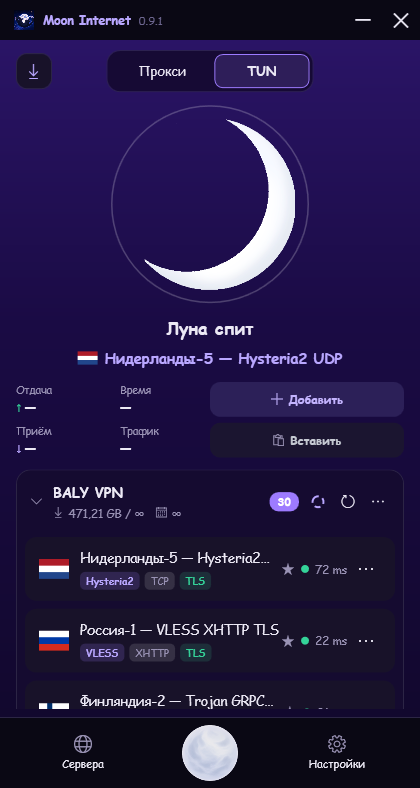
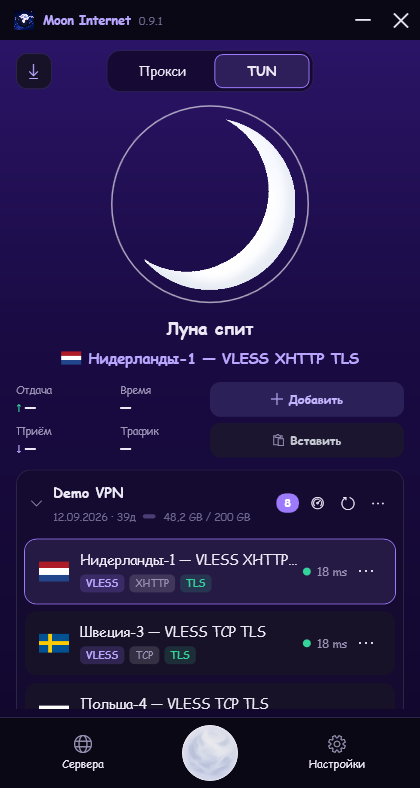
fix(android): no proxy mode, no welcome flash, and the tablet gets its width back
Proxy mode is gone from the phone. Nothing else does it — not HAPP, not
INCY, not v2RayTun — and a second tab promised a thing that was never going
to behave like the desktop one. The row stays a row with a single Туннель
button, because another mode is planned for the space.

The tablet cap is reverted. Clamping the whole app to a phone column left a
tablet mostly empty, which reads worse than a stretched row; the row that
actually misbehaved was the stats block, where two fixed columns sat beside
a weighted one and the buttons took every extra pixel. All three share by
weight now.

The welcome screen flashed for a frame on every launch: the UI rendered off
the default state before the file had been read. Store exposes ready, and
nothing renders until it is true.

The update check no longer hides behind the notification setting — that is
why About showed a dash for the GitHub version. The check always runs at
launch; only the popup is a setting.

diff --git a/android/app/src/main/java/cc/moon/internet/MainActivity.kt b/android/app/src/main/java/cc/moon/internet/MainActivity.kt
@@ -50,13 +50,6 @@ import cc.moon.internet.R
 /** The four pages the desktop window has. */
 private enum class Page { Home, Servers, Routing, Settings }
 
-/**
- * How wide the content is allowed to get. The desktop window it was ported from is 420dp;
- * a little more than that reads fine on a big phone, and anything past it is a tablet
- * stretching a layout that was never meant to fill one.
- */
-private val CONTENT_MAX_WIDTH = 460.dp
-
 class MainActivity : ComponentActivity() {
 
     companion object {
@@ -94,7 +87,14 @@ class MainActivity : ComponentActivity() {
             LaunchedEffect(state.accentHex, state.bgHex, state.textHex) {
                 applyTheme(state.accentHex, state.bgHex, state.textHex)
             }
+            val ready by vm.ready.collectAsState()
             MoonTheme(fontName = state.fontName) {
+                // Nothing until the state file has been read: rendering off the defaults flashed
+                // the welcome screen for a frame on every launch.
+                if (!ready) {
+                    Box(Modifier.fillMaxSize().background(Moon.WinBg))
+                    return@MoonTheme
+                }
                 // First launch takes the whole window: there is nothing behind it worth seeing
                 // until a subscription exists.
                 if (!state.welcomeShown) {
@@ -222,17 +222,13 @@ class MainActivity : ComponentActivity() {
                     },
                 ) { pad ->
                     Box(Modifier.fillMaxSize(), contentAlignment = Alignment.TopCenter) {
-                    // The layout is a phone layout — it was ported from a 420dp-wide desktop
-                    // window. Left to fill a tablet it stretches into nonsense: the Добавить /
-                    // Вставить column grew until the speed and traffic readouts had no room.
-                    // Capping the content and centring it fixes every row at once, and is what
-                    // the other clients do on a tablet too.
-                    Box(Modifier.padding(pad).widthIn(max = CONTENT_MAX_WIDTH).fillMaxHeight()) {
+                    // Full width on purpose. Capping it to a phone column left a tablet mostly
+                    // empty, which reads worse than a stretched row — the rows that actually
+                    // misbehaved are fixed where they are, in the layouts themselves.
+                    Box(Modifier.padding(pad).fillMaxSize()) {
                         when (page) {
                             Page.Home -> HomeScreen(
                                 state = vpn,
-                                tunMode = state.tunMode,
-                                onTunMode = vm::setProxyMode,
                                 server = selected,
                                 subscriptions = state.subscriptions,
                                 collapsed = collapsed,
@@ -526,9 +522,6 @@ private fun BottomNav(
 ) {
     Box(
         modifier
-            // the cap goes before fillMaxWidth, not after: constraints flow outwards in, so
-            // filling first and clamping second leaves the bar full width on a tablet
-            .widthIn(max = CONTENT_MAX_WIDTH)
             .fillMaxWidth()
             // the inset next, so the card clears the system buttons instead of sitting on them
             .navigationBarsPadding()

diff --git a/android/app/src/main/java/cc/moon/internet/ui/HomeScreen.kt b/android/app/src/main/java/cc/moon/internet/ui/HomeScreen.kt
@@ -37,8 +37,6 @@ import androidx.compose.ui.res.stringResource
 @Composable
 fun HomeScreen(
     state: State,
-    tunMode: Boolean,
-    onTunMode: (Boolean) -> Unit,
     server: ServerProfile?,
     subscriptions: List<Subscription>,
     collapsed: Set<String>,
@@ -77,7 +75,10 @@ fun HomeScreen(
         contentPadding = PaddingValues(bottom = bottomNavSpace()),
         horizontalAlignment = Alignment.CenterHorizontally,
     ) {
-        // ---- Прокси / TUN, с плиткой обновления слева ----------------------
+        // ---- режим, с плиткой обновления слева -----------------------------
+        // One button for now. A proxy-only mode is not a thing on Android — HAPP, INCY and
+        // v2RayTun do not offer one either — so promising it with a second tab was misleading.
+        // The row stays a row because another mode is planned for it.
         item {
             Spacer(Modifier.height(12.dp))
             Box(Modifier.fillMaxWidth(), contentAlignment = Alignment.Center) {
@@ -87,8 +88,7 @@ fun HomeScreen(
                     border = androidx.compose.foundation.BorderStroke(1.dp, Color(0xFF2C2150)),
                 ) {
                     Row(Modifier.padding(3.dp)) {
-                        SegButton(stringResource(R.string.homescreen_001), !tunMode) { onTunMode(false) }
-                        SegButton("TUN", tunMode) { onTunMode(true) }
+                        SegButton(stringResource(R.string.mode_tunnel), true) { }
                     }
                 }
 
@@ -194,18 +194,21 @@ fun HomeScreen(
         // ---- stats + add/paste ----------------------------------------------
         item {
             Spacer(Modifier.height(12.dp))
+            // Everything shares the width by weight. Fixed columns beside a weighted one was the
+            // actual tablet problem: the buttons took every extra pixel and the readouts kept
+            // their 104dp whatever the screen was.
             Row(Modifier.fillMaxWidth(), verticalAlignment = Alignment.CenterVertically) {
-                Column(Modifier.width(104.dp)) {
+                Column(Modifier.weight(1f).widthIn(min = 104.dp)) {
                     StatCell(stringResource(R.string.homescreen_009), "↑", upSpeed, Moon.Green)
                     Spacer(Modifier.height(7.dp))
                     StatCell(stringResource(R.string.homescreen_010), "↓", downSpeed, Moon.AccentText)
                 }
-                Column(Modifier.width(90.dp)) {
+                Column(Modifier.weight(1f).widthIn(min = 90.dp)) {
                     StatCell(stringResource(R.string.homescreen_011), null, elapsed, Moon.TextPrimary)
                     Spacer(Modifier.height(7.dp))
                     StatCell(stringResource(R.string.homescreen_012), null, traffic, Moon.TextPrimary)
                 }
-                Column(Modifier.weight(1f)) {
+                Column(Modifier.weight(1.1f).widthIn(max = 260.dp)) {
                     ActionButton(stringResource(R.string.settingsscreen_195), Icons.Filled.Add, Color(0xFF2C2058), Color(0xFFC4B4FF), onAdd)
                     Spacer(Modifier.height(6.dp))
                     ActionButton(stringResource(R.string.serversscreen_005), Icons.Filled.ContentPaste, Moon.ChipBg, Color(0xFFC6CAD3), onPaste)

diff --git a/android/app/src/main/java/cc/moon/internet/ui/MainViewModel.kt b/android/app/src/main/java/cc/moon/internet/ui/MainViewModel.kt
@@ -32,6 +32,7 @@ class MainViewModel(app: Application) : AndroidViewModel(app) {
 
     private val store = Store(app)
     val state get() = store.state
+    val ready get() = store.ready
 
     private val _status = MutableStateFlow("")
     val status = _status.asStateFlow()
@@ -143,6 +144,9 @@ class MainViewModel(app: Application) : AndroidViewModel(app) {
         _updateAvailable.value = cc.moon.internet.data.UpdateService.isNewer(r.version, appVersion)
         _updateStatus.value =
             if (_updateAvailable.value) s(R.string.vm_update_available, r.version) else s(R.string.vm_up_to_date)
+        val st = store.state.value
+        if (_updateAvailable.value && st.notificationsEnabled && st.notifyAppUpdate)
+            postNotice(s(R.string.vm_update_available, r.version))
     }
 
     init {
@@ -159,12 +163,10 @@ class MainViewModel(app: Application) : AndroidViewModel(app) {
             if (store.state.value.pingOnStart && _pings.value.isEmpty()) pingAll()
             requestAutoConnect()
         }
-        // The launch check is gated: the badge and the popup are both something the user can
-        // switch off on the Уведомления page, and a check nobody sees is just a request.
-        viewModelScope.launch {
-            store.load()   // no-op if the block above got there first
-            if (store.state.value.notificationsEnabled && store.state.value.notifyAppUpdate) checkUpdate()
-        }
+        // Always check at launch. Gating the check itself on the notification setting left the
+        // About page showing a dash for the GitHub version and "you are up to date" for something
+        // nobody had looked up — the setting belongs on the popup, not on the lookup.
+        checkUpdate()
         viewModelScope.launch { watchTraffic() }
         viewModelScope.launch {
             vpnState.collect { s ->
@@ -352,7 +354,6 @@ class MainViewModel(app: Application) : AndroidViewModel(app) {
 
     fun dismissWelcome() = viewModelScope.launch { store.update { it.copy(welcomeShown = true) } }
 
-    fun setTunMode(on: Boolean) = viewModelScope.launch { store.update { it.copy(tunMode = on) } }
 
     fun sortedServers(): List<ServerProfile> = store.sortedServers(_pings.value)
 
@@ -732,11 +733,6 @@ class MainViewModel(app: Application) : AndroidViewModel(app) {
 
     /** Last lines of the core log, for the viewer. */
     fun logsTail(): String = cc.moon.internet.data.LogStore.tail(getApplication())
-
-    fun setProxyMode(tun: Boolean) = viewModelScope.launch {
-        store.update { it.copy(tunMode = tun) }
-        reconnectIfConnected()
-    }
 
     /** Generic one-off message in the snackbar (copied, empty clipboard, not-built-yet screens). */
     fun notImplemented(what: String) { _status.value = what }

diff --git a/android/app/src/main/java/cc/moon/internet/data/Store.kt b/android/app/src/main/java/cc/moon/internet/data/Store.kt
@@ -26,6 +26,7 @@ data class AppState(
     val dns: String = "1.1.1.1",
     val ipv6: Boolean = false,
     val sort: String = "default",
+    /** Always true for now: the proxy-only mode was removed, another is planned. */
     val tunMode: Boolean = true,
     /** urls of subscriptions the user collapsed on Home */
     val collapsed: List<String> = emptyList(),
@@ -111,9 +112,13 @@ class Store(private val ctx: Context) {
     private val json = Json { ignoreUnknownKeys = true; encodeDefaults = true; prettyPrint = false }
 
     private val _state = MutableStateFlow(AppState())
+
+    /** False until the state file has been read, so nothing renders off the defaults. */
+    private val _ready = MutableStateFlow(false)
+    val ready = _ready.asStateFlow()
     val state = _state.asStateFlow()
 
-    private companion object { const val CURRENT_VERSION = 4 }
+    private companion object { const val CURRENT_VERSION = 5 }
 
     private val loadOnce = kotlinx.coroutines.sync.Mutex()
     @Volatile private var loaded = false
@@ -139,12 +144,14 @@ class Store(private val ctx: Context) {
         // v4: anybody who already has a subscription has clearly been past the first launch.
         _state.value = if (loaded.settingsVersion < CURRENT_VERSION)
             loaded.copy(
+                tunMode = true,   // v5: proxy-only is gone; anybody stuck in it gets the tunnel back
                 pingStagger = true,
                 subMeter = "text",
                 welcomeShown = loaded.welcomeShown || loaded.subscriptions.isNotEmpty(),
                 settingsVersion = CURRENT_VERSION,
             ).also { save(it) }
         else loaded
+        _ready.value = true
     }
 
     private fun save(st: AppState) = runCatching { file.writeText(json.encodeToString(st)) }
